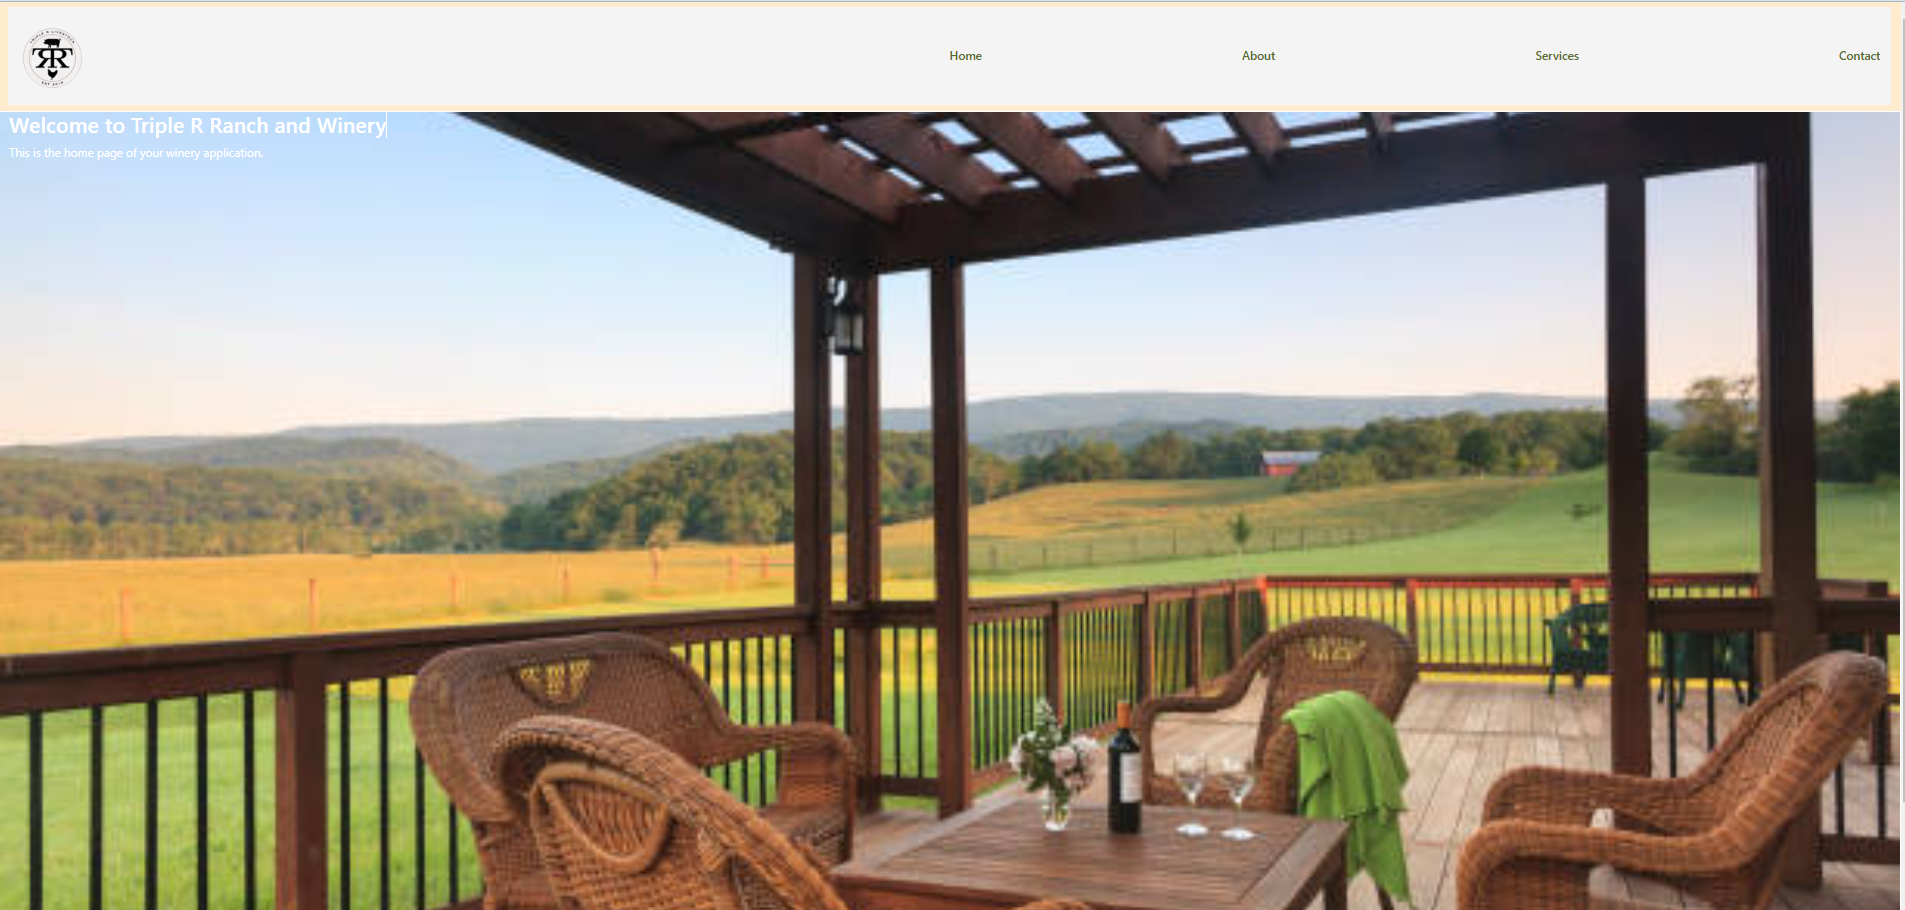
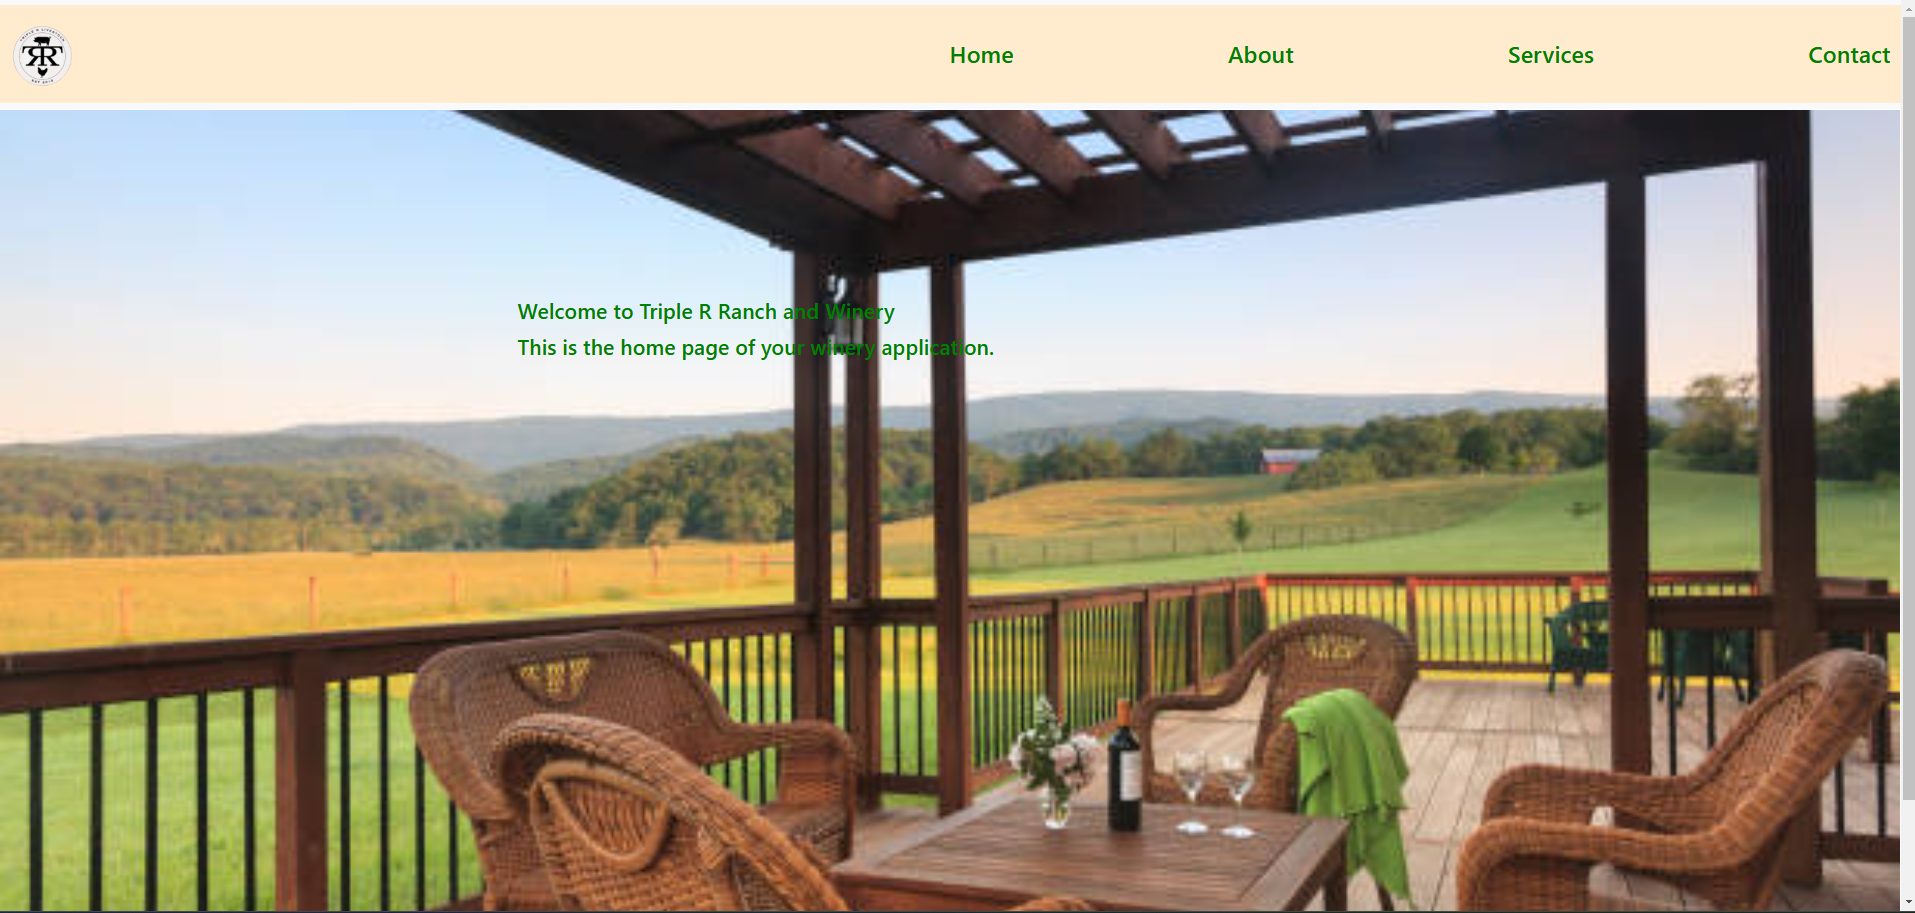
updated navbar

diff --git a/client/src/components/Nav.css b/client/src/components/Nav.css
@@ -5,9 +5,9 @@
      /* Reset margin */
      font-size: 35px;
      /* Standard font size */
-     justify-content: flex-start;
+     justify-content: center;
      font-weight: 600;
-     font-style:normal;
+     font-style: normal;
      /* Clean font style */
      height: auto;
      /* Allow the navbar to adjust height based on content */
@@ -22,10 +22,10 @@
      /* Reduced padding to keep it compact */
      padding-bottom: 8px;
      /* Reduced padding to keep it compact */
-     display: block;
-     /* Default block behavior */
+     display: flex;
+     /* Change to flexbox layout */
+     /* Flex layout enables justify-content */
      box-sizing: border-box;
-
 }
 
 .container {
@@ -37,14 +37,27 @@
 
 .navbar .navbar-brand img {
      width: 100px;
+     display: flex;
+     justify-content: space-between;
+          /* Adjust as needed */
      /* Set image width */
      height: auto;
+     width: auto%;
+     padding: 10px 20px;
+     /* Adjust padding as needed */
+     /* Ensure full width of the navbar */
      /* Auto height to maintain aspect ratio */
 }
 
 .navbar .nav-link {
-     padding-top: 8px;
-     /* Reduced padding on the links */
-     padding-bottom: 8px;
-     /* Reduced padding on the links */
+display: flex;
+     /* Enable flex layout for navbar */
+     justify-content: space-between;
+     /* Distribute space between logo and links */
+     align-items: center;
+     /* Align items vertically */
+     width: 100%;
+     /* Ensure navbar spans the full width */
+     padding: 10px 20px;
+     /* Adjust padding */
 }
